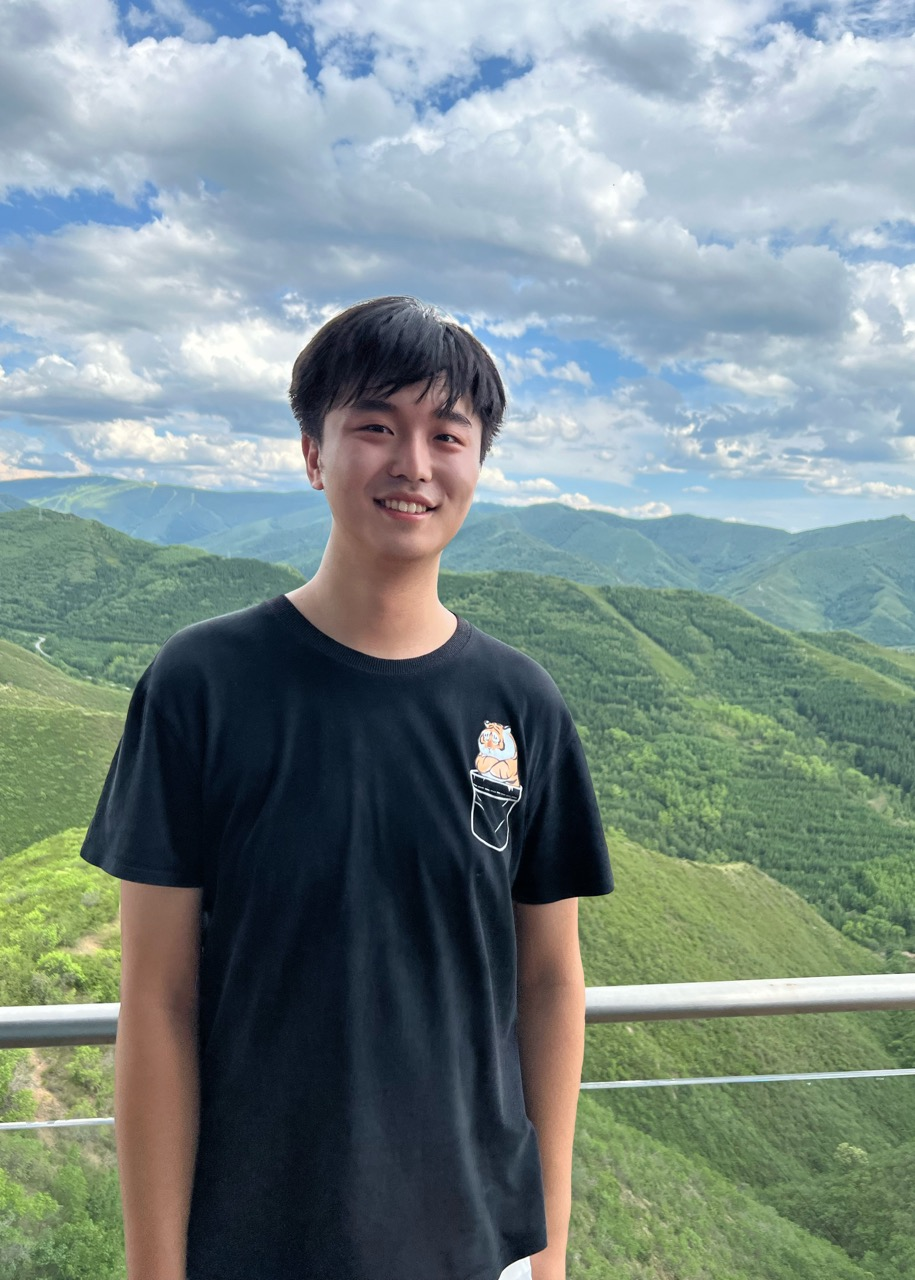
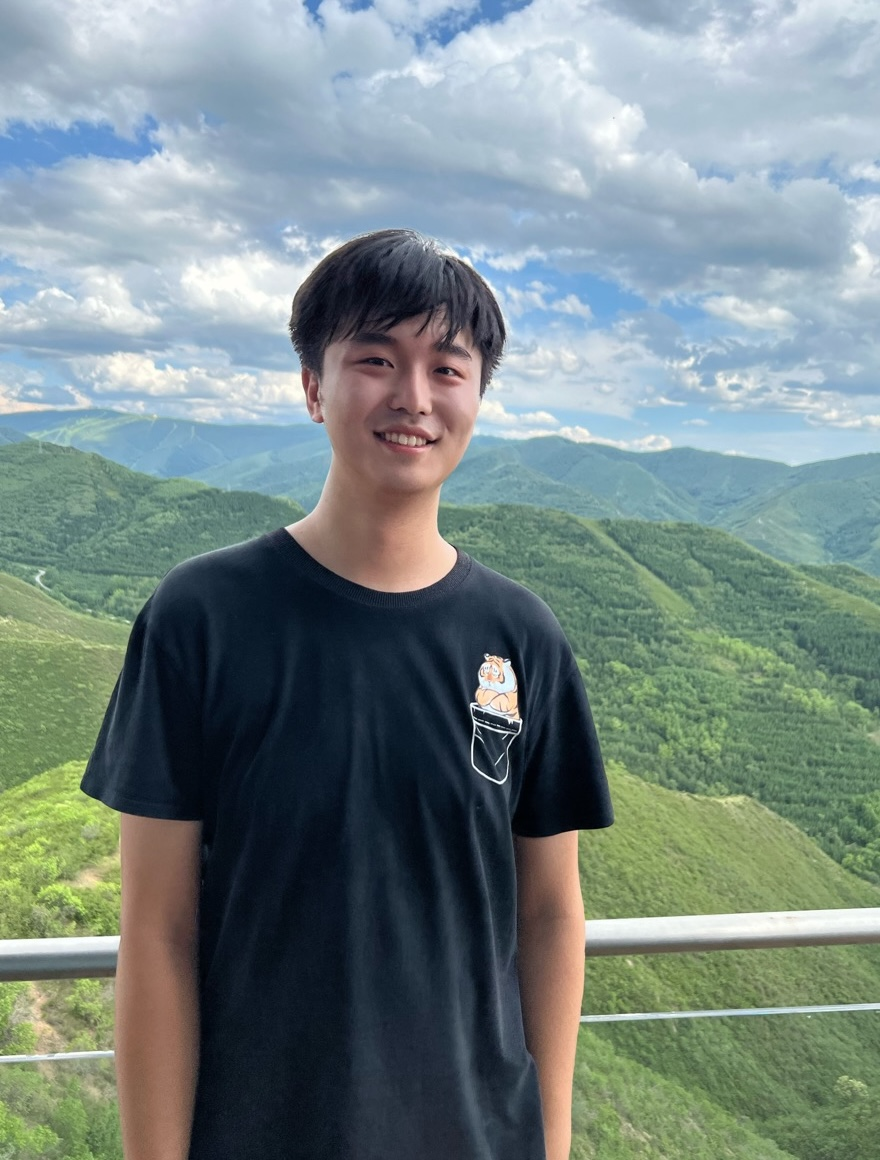
1

diff --git a/index.md b/index.md
@@ -1,8 +1,6 @@
-# Wenhan DAI (戴文晗)
-
 _Last update on: September, 2025._
 
-<big> **Hi!** </big> 
+**Hi!**
 
 - [**Papers and Notes**](./blurbs.md)
 - [**Conference and Seminar Activities**](./activities.md)
@@ -12,11 +10,13 @@ _Last update on: September, 2025._
 
 <img src="./headshot-new.jpeg" alt="headshot" style="float:left;margin:0.5rem 1.5rem 0.5rem 0rem;width:200px" /> 
 
+<small>(_Photo by Xiangqian Yang; at Chongli, China, July 2024._)</small>
+
 I am currently a graduate student in pure mathematics at [National University of Singapore](https://www.math.nus.edu.sg) and my advisor is [David Hansen](http://www.davidrenshawhansen.net); I spent my previous two academic years 2023 and 2024 at [Qiuzhen Colledge, Tsinghua University](https://qzc.tsinghua.edu.cn/en/), where I was partially advised by [Yihang Zhu](https://yhzhumath.github.io). I obtained my B.Sc. in mathematics from [Peking University](https://www.pku.edu.cn) in 2023, supervised by [Liang Xiao](https://bicmr.pku.edu.cn/~lxiao/index.htm).
 
 I study and work on number theory, arithmetic geometry, and representation theory. My interest mainly lies in explicit aspects of the **categorical local Langlands correspondence**; I am also boardly interested in **geometric Langlands** and **relative Langlands**. 
 
-<small>(_Portrait by [Xiangqian Yang](https://yxqmath.github.io); Chongli, China, 2024._)</small>
+
 
 
 
